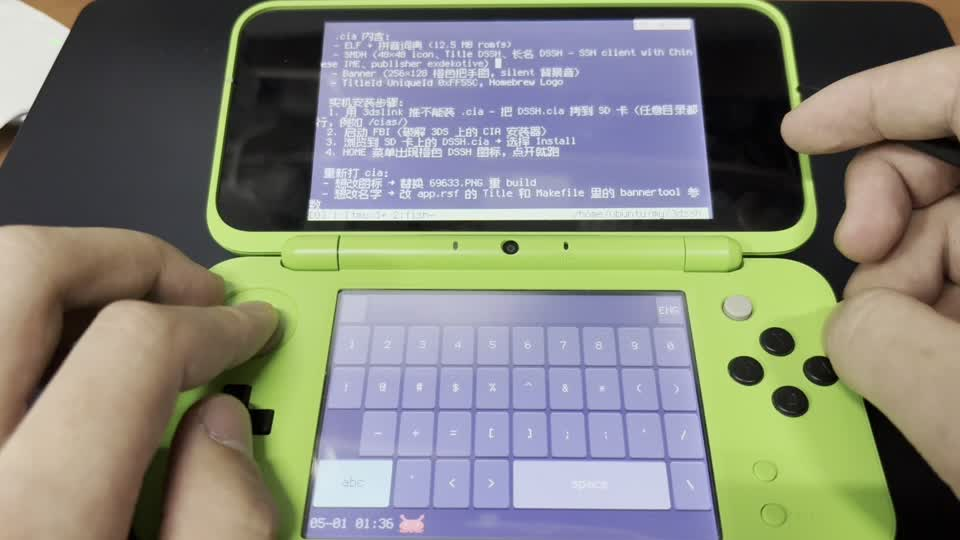
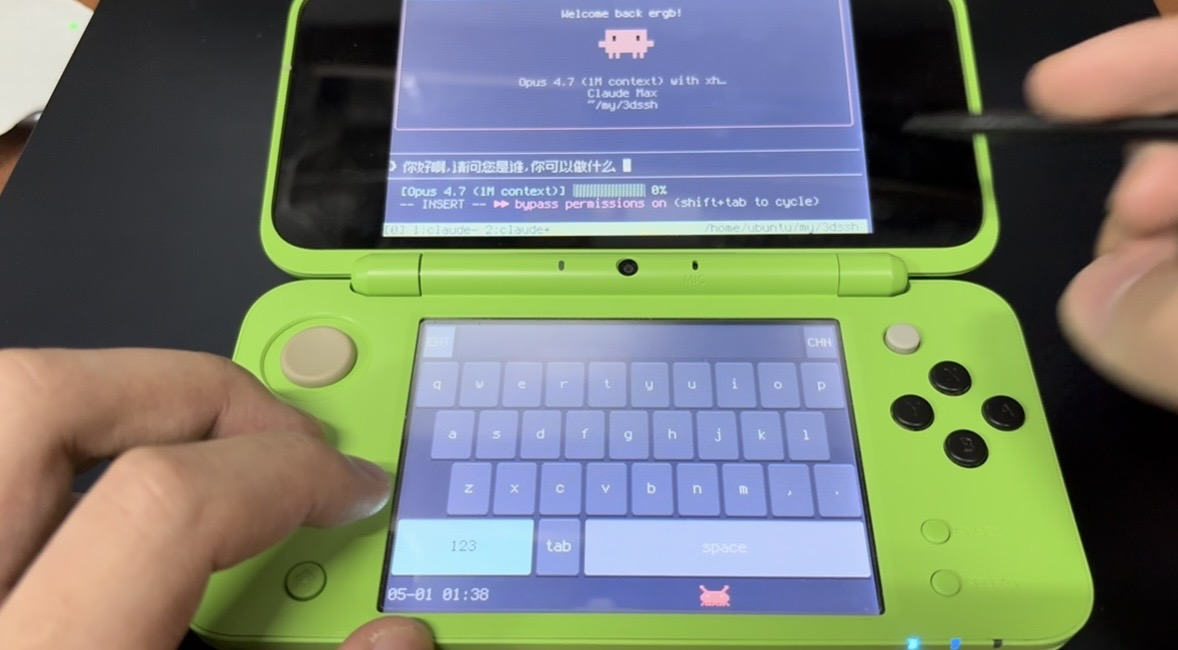
README: replace auto-extracted poster with the Claude Code shot
The user-supplied IMG_5031.jpg is a much better hero — it shows the
actual primary use case (typing 中文 into Claude Code's prompt box)
on a real device, with the letter page + CHN mode + Shift active and
the crab visible in the bottom row.  The previous poster (auto-grabbed
at t=25s from the demo video) had the README content and the symbol
page, which was less self-explanatory.

114 KB JPG, 1178×650 — same path docs/media/poster.jpg so README
markdown didn't need to change beyond the caption.

diff --git a/README.md b/README.md
@@ -28,7 +28,8 @@
 </p>
 
 <p align="center">
-  <img src="docs/media/poster.jpg" alt="实机截图：上屏 ANSI 终端，下屏软键盘 + 螃蟹" width="640">
+  <img src="docs/media/poster.jpg" alt="实机：在 Claude Code 中用拼音 IME 输入中文" width="720"><br>
+  <sub>实机 New 2DS XL · 上屏 Claude Code 输入「你好啊！请问您是谁，你可以做什么」 · 下屏字母页 + CHN 模式 + Shift</sub>
 </p>
 
 ---